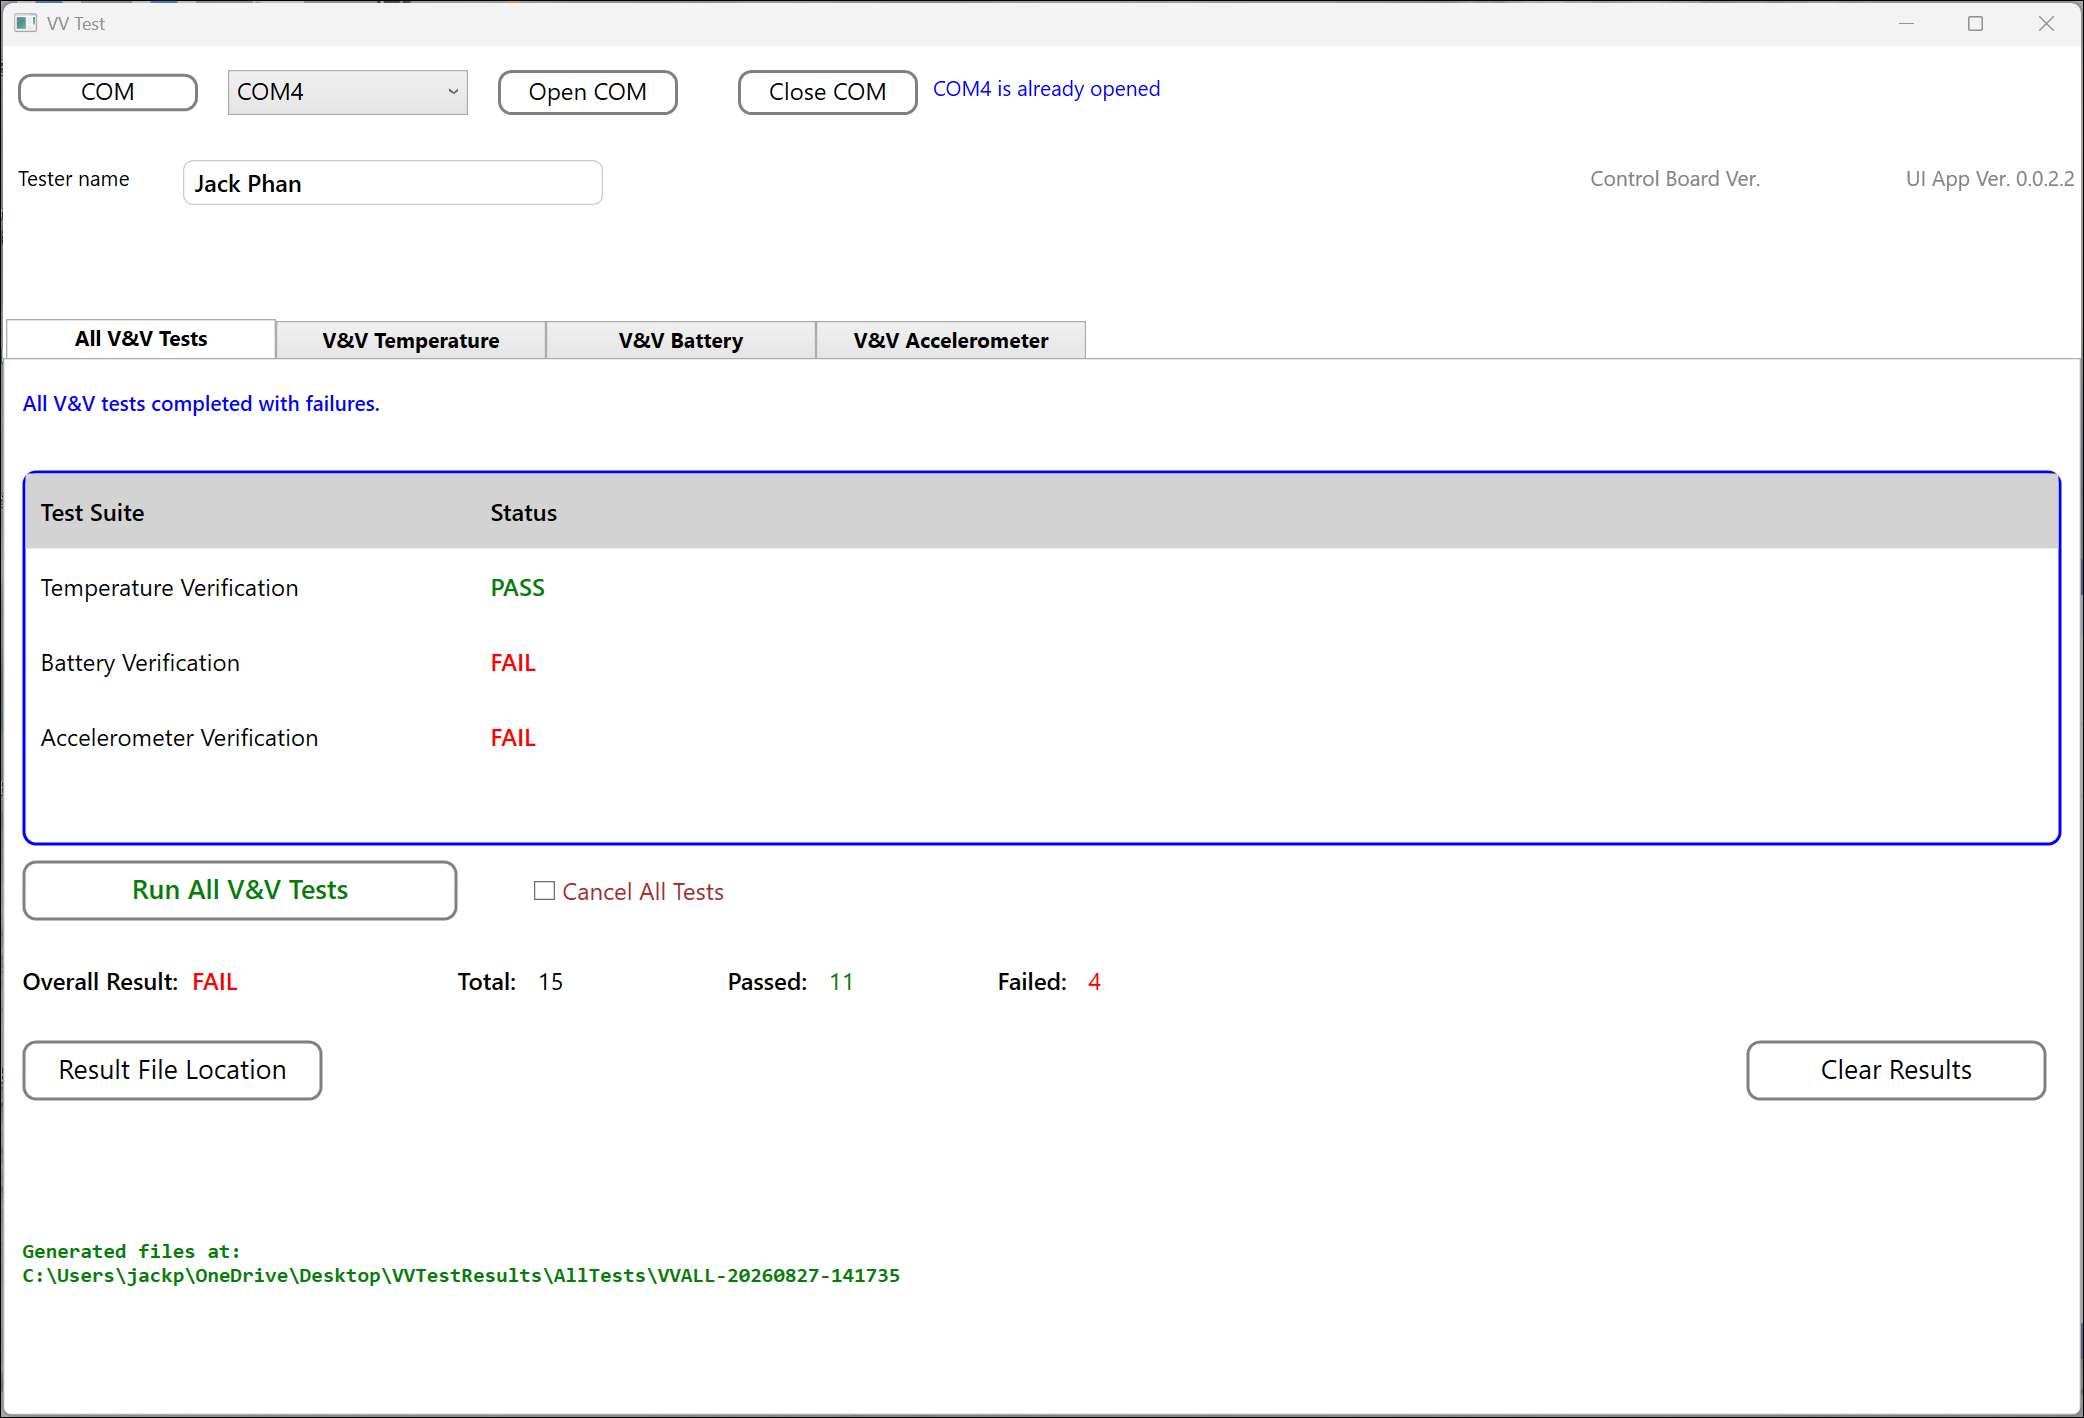
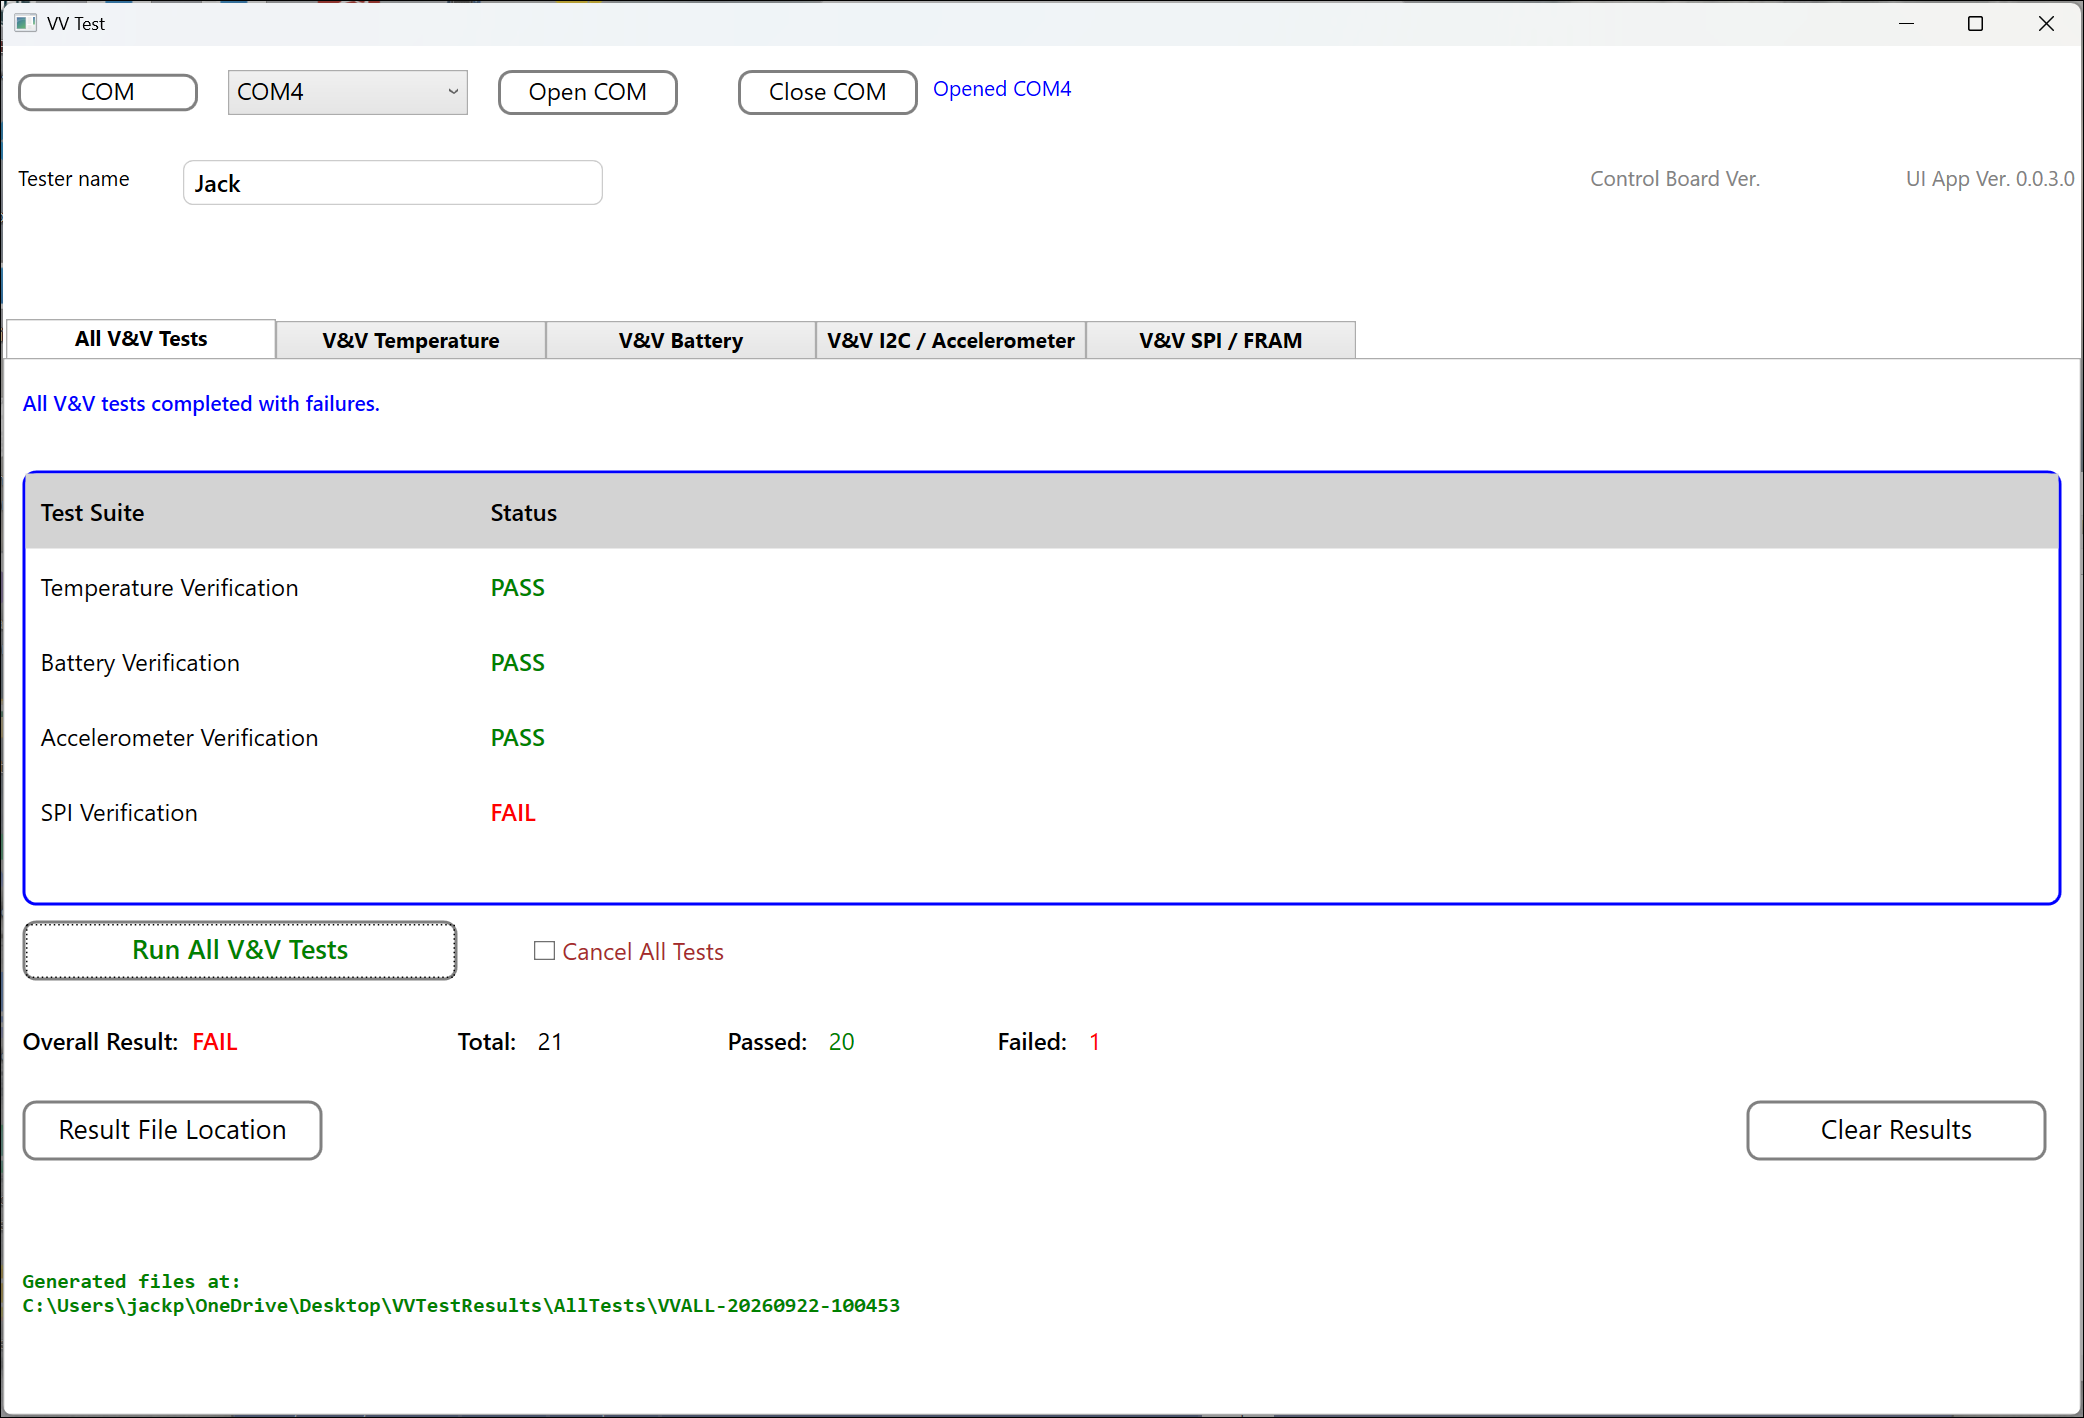
Adding SPI tests, cont.

diff --git a/VVAutomation/DemoFeatures.html b/VVAutomation/DemoFeatures.html
@@ -426,7 +426,6 @@
 
 
         <!-- Accelerometer -->
-
         <div class="demo-screenshot">
 
             <h3>Accelerometer Verification</h3>
@@ -449,6 +448,32 @@
             </a>
 
         </div>
+
+        <!-- SPI FRAM -->
+
+        <div class="demo-screenshot">
+
+            <h3>SPI FRAM Verification</h3>
+
+            <p>
+                Verify SPI communication with external FRAM, including device
+                identification, write enable, single-byte and multiple-byte
+                memory operations, communication errors, and timeout handling.
+            </p>
+
+            <a href="images/SPITestPage.png"
+            target="_blank"
+            title="Click to view full-size image">
+
+                <img
+                    src="images/SPITestPage.png"
+                    alt="V&V Automation SPI FRAM test screen"
+                    loading="lazy"
+                >
+
+            </a>
+
+        </div>        
 
     </section>
 
